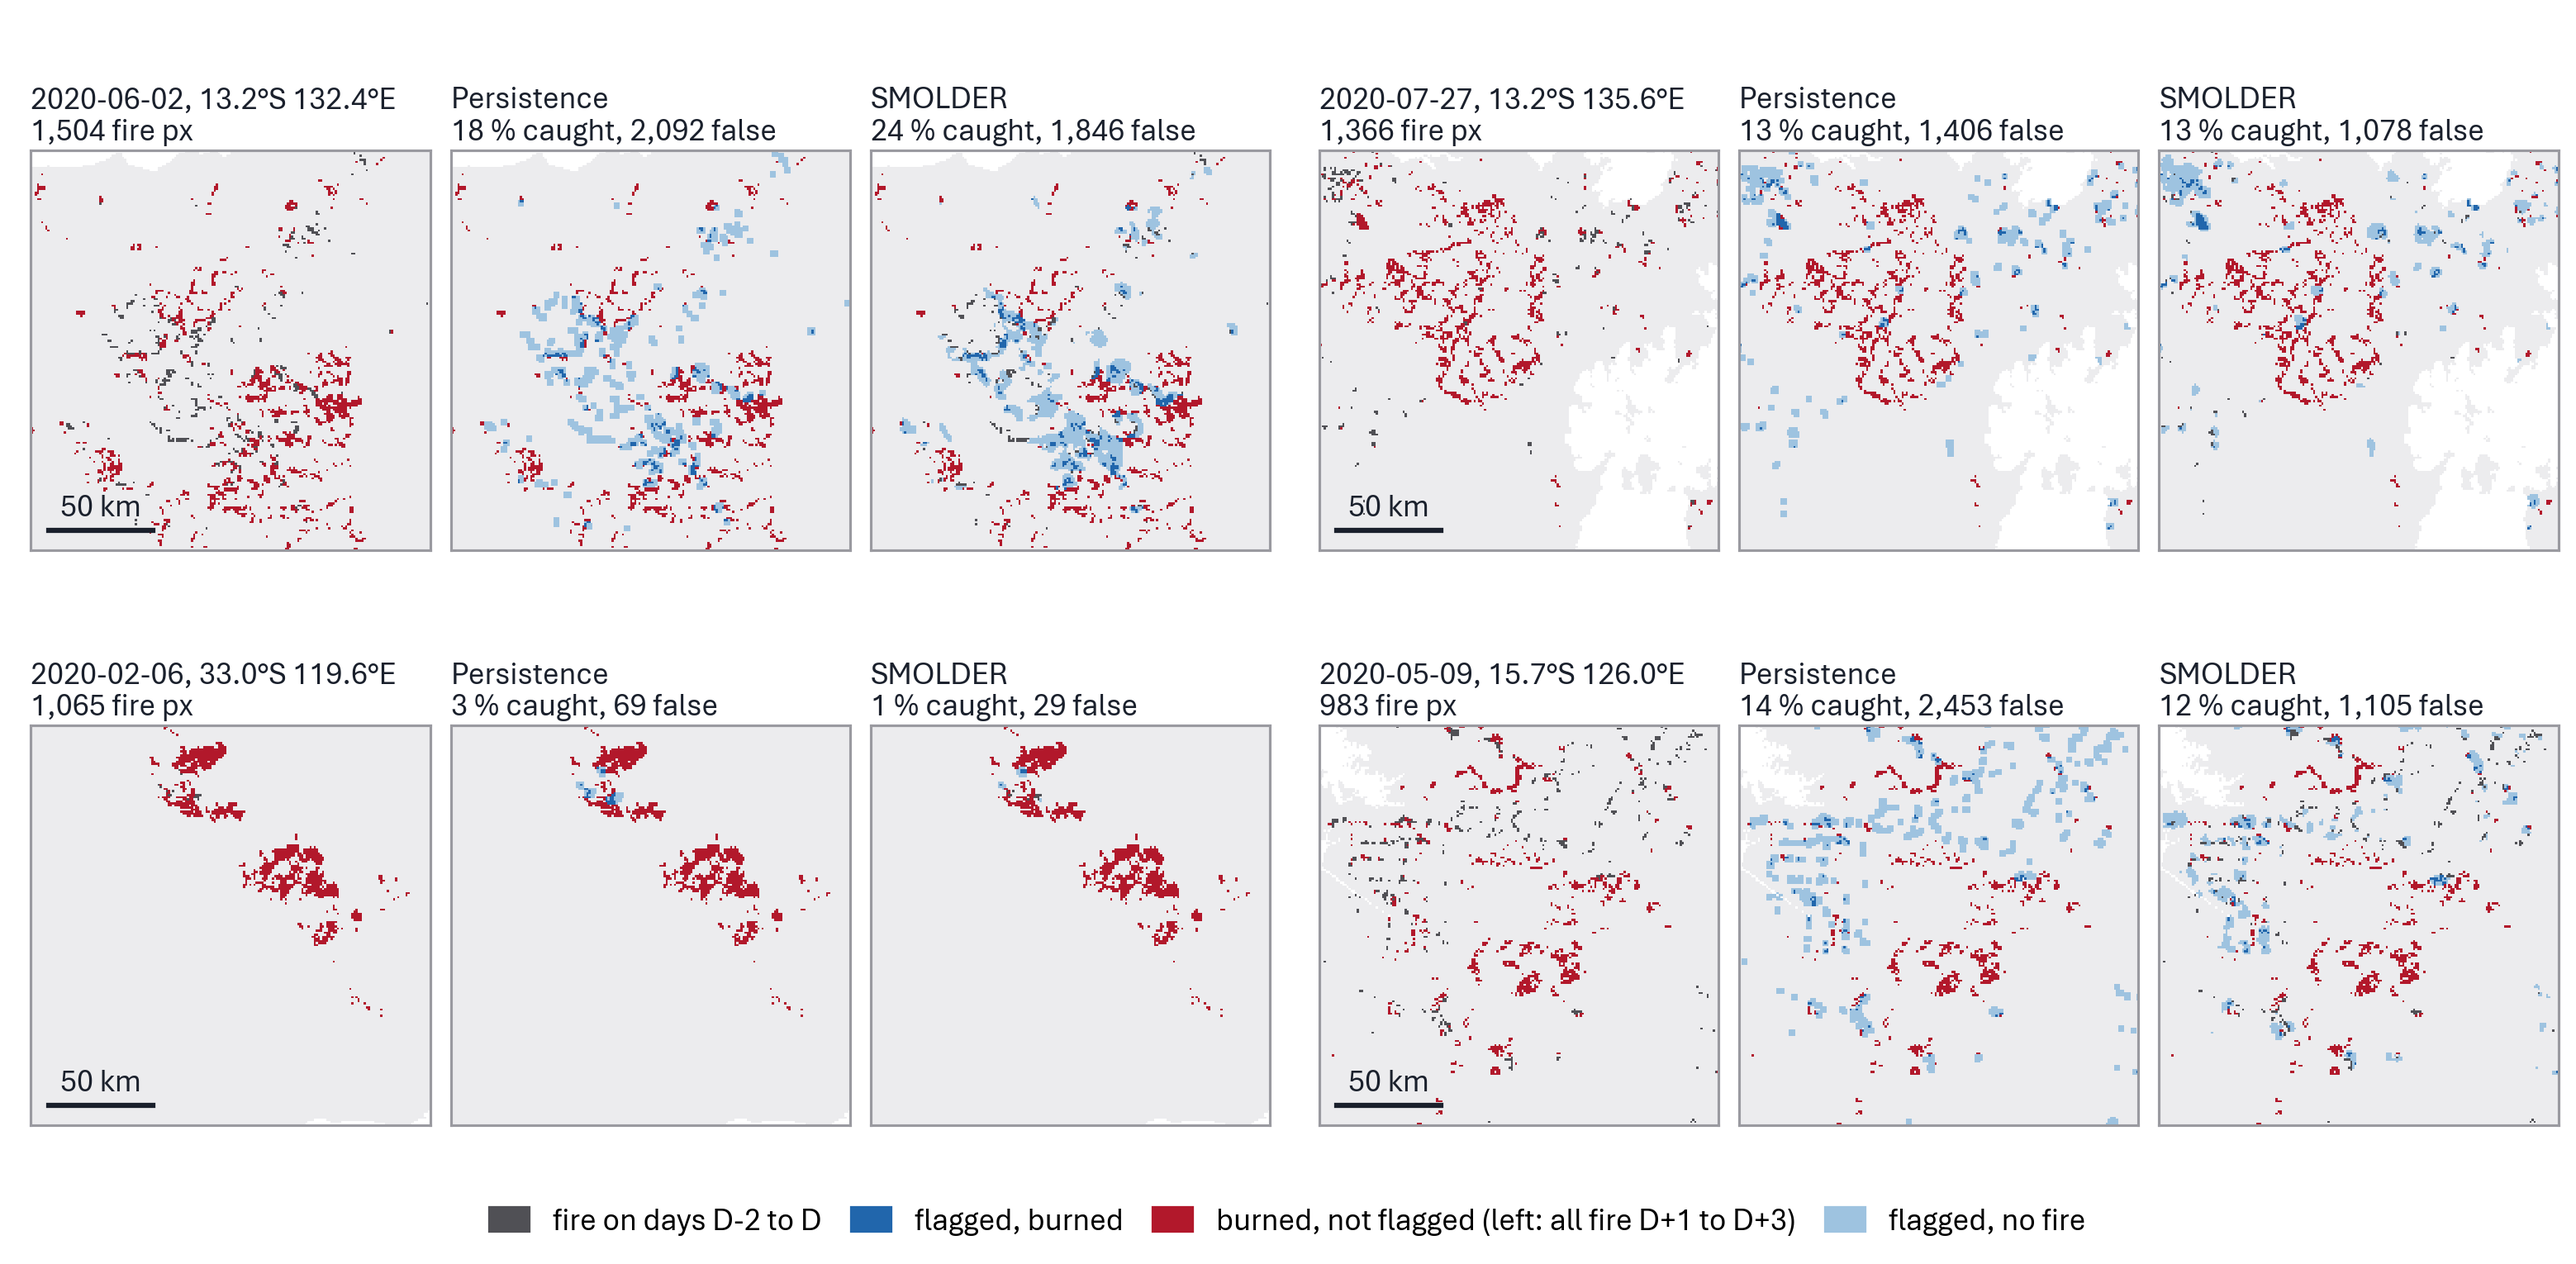
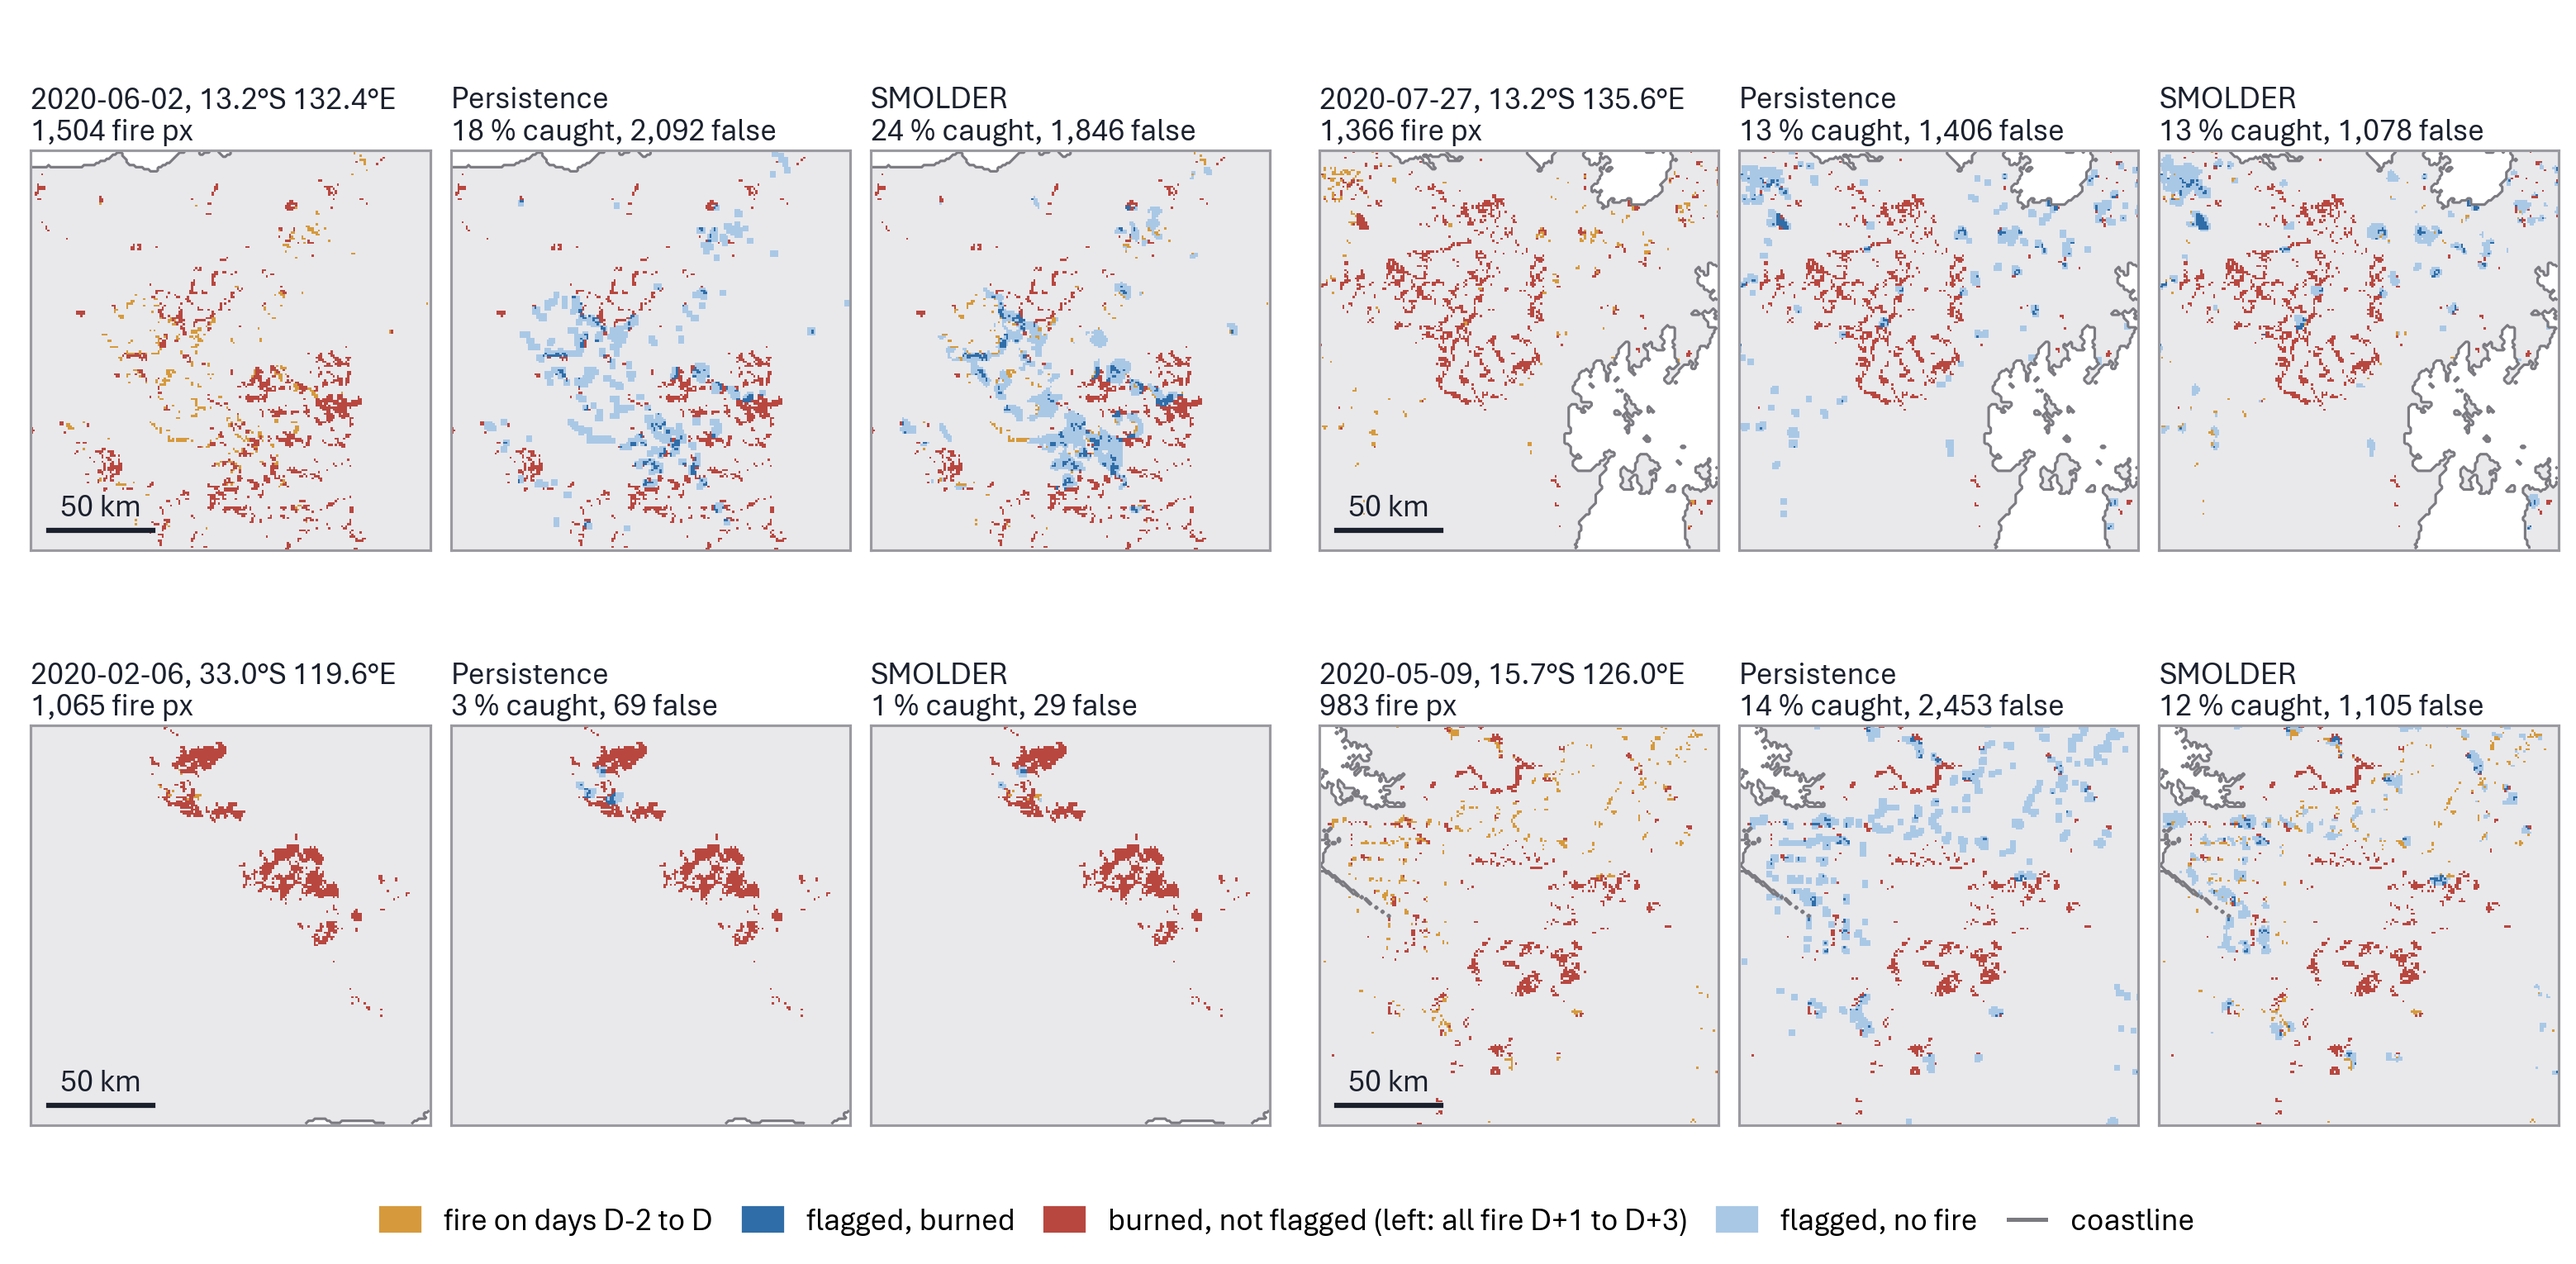
Simpler conditions figure (outcomes by distance to fire only); event maps with coastline and muted fire colours

diff --git a/figures/make_explain_figures.py b/figures/make_explain_figures.py
@@ -166,77 +166,56 @@ def _wquantile(v, w, q):
 
 
 def conditions(pixels):
-    """(a) Distance to recent fire by forecast outcome, as stacked shares.
-    (b-e) Issue-day conditions per outcome and climate zone: median (dot) and
-    middle half (bar) of the pixels, weighted to the true class sizes."""
+    """Where each forecast outcome lies relative to fire already burning: one
+    stacked bar per outcome, shares of pixels by distance to the nearest fire
+    of the issue day and the two days before, weighted to the true class sizes.
+    The issue-day conditions per outcome and climate zone (weighted quartiles)
+    are computed for the numbers file but not drawn."""
     import pandas as pd
     _paper_rc()
     p = pd.read_csv(pixels, usecols=lambda c: c in {"cls", "cls_n", "patch", "climate", "dist_recent_fire_km"}
                     | {v for v, *_ in COND_VARS})
     p["w"] = _weights(p)
     d = p.dist_recent_fire_km.fillna(np.inf).values           # NaN: beyond the feature's range (~70 km)
-    fig = plt.figure(figsize=(PW, 3.5))
 
-    # (a) where each outcome lies relative to fire already burning
-    a = fig.add_axes([0.16, 0.70, 0.60, 0.26])
-    yy = np.arange(len(OUTCOMES))[::-1]
+    quartiles = {}                                             # var -> climate -> outcome -> [q25, median, q75, n]
+    for var, *_ in COND_VARS:
+        for clim in ("tropical", "arid", "temperate"):
+            for cls, *_ in OUTCOMES:
+                m = ((p.cls == cls) & (p.climate == clim)).values & np.isfinite(p[var].values)
+                if m.sum() >= 30:
+                    q = _wquantile(p[var].values[m], p.w.values[m], [0.25, 0.5, 0.75])
+                    quartiles.setdefault(var, {}).setdefault(clim, {})[cls] = [float(v) for v in q] + [int(m.sum())]
+
+    rows = [("hit", "Fire that SMOLDER caught"), ("miss", "Fire that SMOLDER missed"),
+            ("false_alarm", "False alarms"), ("background", "All other land")]
+    bands = [("under 3 km", 0, 3, "#A5482F", "white"), ("3 to 10 km", 3, 10, "#D9976A", INK),
+             ("over 10 km", 10, np.inf, "#EEE4D8", INK)]
+    fig = plt.figure(figsize=(PW, 1.9))
+    a = fig.add_axes([0.2, 0.2, 0.77, 0.58])
+    yy = np.arange(len(rows))[::-1]
     shares = {}
-    for (cls, name, desc, col), y in zip(OUTCOMES, yy):
+    for (cls, label), y in zip(rows, yy):
         m = (p.cls == cls).values
         w = p.w.values[m]; left = 0.0
         shares[cls] = []
-        for lab, lo, hi, bc in DIST_BANDS:
+        for _, lo, hi, col, tc in bands:
             sh = 100 * w[(d[m] >= lo) & ((d[m] < hi) | np.isinf(hi))].sum() / w.sum()
             shares[cls].append(sh)
-            a.barh(y, sh, left=left, height=0.66, color=bc, edgecolor="white", lw=0.4, zorder=3)
-            if sh >= 7:
-                a.text(left + sh / 2, y, f"{sh:.0f} %", ha="center", va="center", fontsize=6,
-                       color="white" if bc != "#D3D3D8" else INK, zorder=4)
+            a.barh(y, sh, left=left, height=0.68, color=col, edgecolor="white", lw=0.6, zorder=3)
+            if sh >= 6:
+                a.text(left + sh / 2, y, f"{sh:.0f} %", ha="center", va="center", fontsize=6.5, color=tc, zorder=4)
             left += sh
     a.set_yticks(yy)
-    a.set_yticklabels([f"{name}\n({desc})" for _, name, desc, _ in OUTCOMES], fontsize=6, linespacing=0.95)
-    for t, (_, _, _, col) in zip(a.get_yticklabels(), OUTCOMES):
-        t.set_color(col); t.set_fontweight("bold")
-    a.set_xlim(0, 100); a.set_xlabel("Share of pixels (%)", labelpad=1)
+    a.set_yticklabels([label for _, label in rows], fontsize=6.5)
+    a.set_xlim(0, 100); a.set_ylim(-0.5, len(rows) - 0.5)
+    a.set_xticks([0, 25, 50, 75, 100]); a.set_xticklabels(["0", "25", "50", "75", "100 %"])
     _paper_axes(a, grid_y=False)
-    a.legend(handles=[plt.Rectangle((0, 0), 1, 1, color=bc) for *_, bc in DIST_BANDS],
-             labels=[lab for lab, *_ in DIST_BANDS], title="Distance to fire of the\nissue day and 2 days before",
-             title_fontsize=6.2, loc="center left", bbox_to_anchor=(1.01, 0.5), frameon=False, handlelength=1.2)
-    _tag(a, "a", x=-0.25)
-
-    # (b-e) conditions on the issue day
-    x0, wd, gap = 0.085, 0.2, 0.03
-    ydot = {"tropical": 2, "arid": 1, "temperate": 0}
-    off = (np.arange(len(OUTCOMES)) - 1.5) * 0.17
-    quartiles = {}                                         # var -> climate -> outcome -> [q25, median, q75, n]
-    for k, (var, label, scale, fmt) in enumerate(COND_VARS):
-        ax = fig.add_axes([x0 + k * (wd + gap), 0.11, wd, 0.40])
-        for clim, yc in ydot.items():
-            for o, (cls, name, _, col) in enumerate(OUTCOMES):
-                m = ((p.cls == cls) & (p.climate == clim)).values & np.isfinite(p[var].values)
-                if m.sum() < 30:
-                    continue
-                q1, q2, q3 = _wquantile(p[var].values[m] * scale, p.w.values[m], [0.25, 0.5, 0.75])
-                quartiles.setdefault(var, {}).setdefault(clim, {})[cls] = [float(q1), float(q2), float(q3), int(m.sum())]
-                yv = yc - off[o]
-                ax.plot([q1, q3], [yv, yv], color=col, lw=1.6, alpha=0.45, solid_capstyle="butt", zorder=3)
-                ax.plot(q2, yv, "o", ms=3.2, color=col, zorder=4)
-        ax.set_ylim(-0.5, 2.5)
-        ax.set_yticks(list(ydot.values()))
-        ax.set_yticklabels([c if k == 0 else "" for c in ydot], fontsize=6.5)
-        if k > 0:
-            ax.tick_params(axis="y", length=0)
-        ax.set_xlabel(label, labelpad=1)
-        ax.set_xlim(left=0)
-        _paper_axes(ax, grid_y=False)
-        for yb in (0.5, 1.5):
-            ax.axhline(yb, color="white", lw=1.0, zorder=1)
-        _tag(ax, "bcde"[k], x=-0.33 if k == 0 else -0.06)
-    from matplotlib.lines import Line2D
-    fig.legend(handles=[Line2D([], [], color=col, marker="o", ms=3.2, lw=1.6, alpha=1) for *_, col in OUTCOMES],
-               labels=[name for _, name, _, _ in OUTCOMES], loc="lower left", bbox_to_anchor=(0.075, 0.535),
-               ncol=4, frameon=False, handlelength=1.6, columnspacing=1.4,
-               title="Conditions on the issue day (dot: median; bar: middle half of the pixels)",
+    a.tick_params(axis="y", length=0)
+    fig.legend(handles=[plt.Rectangle((0, 0), 1, 1, color=c) for _, _, _, c, _ in bands],
+               labels=[lab for lab, *_ in bands], loc="upper left", bbox_to_anchor=(0.2, 0.995), ncol=3,
+               frameon=False, handlelength=1.2, columnspacing=1.6,
+               title="Distance to the nearest fire detected on the issue day or the two days before",
                title_fontsize=6.5, alignment="left")
     fig.savefig(os.path.join(FIG_OUT, "fig_explain_conditions.png"), dpi=PDPI, facecolor="white")
     plt.close(fig)

diff --git a/figures/make_paper_figures.py b/figures/make_paper_figures.py
@@ -190,7 +190,9 @@ def importance():
 
 def events():
     year = int(os.environ.get("YEAR", 2020)); z = np.load(os.environ["EVENT_CACHE"])
-    OCEAN, LAND, RECENT, HIT, MISS, FALSE = "#FFFFFF", "#ECECEE", "#505055", "#2166AC", "#B2182B", "#9EC3E0"
+    # muted but distinct: recent fire amber, later fire brick red, flagged blue tones; coastline grey
+    OCEAN, LAND, RECENT, HIT, MISS, FALSE = "#FFFFFF", "#E9E9EC", "#D69A3C", "#2F6DA8", "#B8473F", "#A9C8E6"
+    COAST = "#7A7A80"
     cmap = ListedColormap([OCEAN, LAND, RECENT, HIT, MISS, FALSE]); S = 192
     LON0, LAT0, PX = 112.904998779, -9.005000113999998, 0.01
 
@@ -215,6 +217,7 @@ def events():
                 ax = fig.add_axes([x_ev[col] + j * (pw + gap), yb, pw, pw * W / 3.4])
                 flag = None if c == "obs" else z[p + c]
                 ax.imshow(rgb(land, recent, y, flag), cmap=cmap, vmin=-0.5, vmax=5.5, interpolation="nearest")
+                ax.contour(land.astype(float), levels=[0.5], colors=COAST, linewidths=0.5)
                 ax.set_xticks([]); ax.set_yticks([])
                 for s in ax.spines.values():
                     s.set_color("#9A9AA0"); s.set_linewidth(0.5)
@@ -229,8 +232,9 @@ def events():
                                  color=INK, loc="left", pad=2)
         handles = [Patch(color=RECENT, label="fire on days D-2 to D"), Patch(color=HIT, label="flagged, burned"),
                    Patch(color=MISS, label="burned, not flagged (left: all fire D+1 to D+3)"),
-                   Patch(color=FALSE, label="flagged, no fire")]
-        fig.legend(handles=handles, loc="lower center", ncol=4, frameon=False, fontsize=6, bbox_to_anchor=(0.5, 0.0),
+                   Patch(color=FALSE, label="flagged, no fire"),
+                   matplotlib.lines.Line2D([], [], color=COAST, lw=0.8, label="coastline")]
+        fig.legend(handles=handles, loc="lower center", ncol=5, frameon=False, fontsize=6, bbox_to_anchor=(0.5, 0.0),
                    handlelength=1.2, columnspacing=1.0)
         save(fig, f"fig_events_{kind}_{year}.png", 3.4)
 

diff --git a/figures/supplement/README.md b/figures/supplement/README.md
@@ -40,13 +40,12 @@ removes differences of region and season. Slow inputs are 8-day periods drawn
 at their centre; leaf area index is drawn at the date it was observed, 31 days
 before the model receives it.
 
-**fig_explain_conditions.png.** Forecast outcomes in 2020 with the threshold
-chosen on 2019 (best F2): caught (flagged, burned), missed (burned, not
-flagged), false alarm (flagged, no fire) and other land (neither). (a) Share of
-each outcome by distance to the nearest fire detected on the issue day or the
-two days before. (b to e) Conditions on the issue day by outcome and climate
-zone: median (dot) and middle half (bar) of the pixels. Pixels are weighted to
-the true size of their outcome in each patch.
+**fig_explain_conditions.png.** Where the forecast outcomes of 2020 lie
+relative to fire already burning, with the threshold chosen on 2019 (best
+F2): share of the fire that SMOLDER caught, of the fire it missed, of its
+false alarms and of all other land, by distance to the nearest fire detected
+on the issue day or the two days before. Pixels are weighted to the true size
+of their outcome in each patch.
 
 ## Input data, 2015 to 2020
 

diff --git a/README.md b/README.md
@@ -349,11 +349,10 @@ existing fire goes next.
 
 ![conditions by forecast outcome](figures/fig_explain_conditions.png)
 
-*(a) Where the outcomes lie: 87.0 % of the caught fire pixels and 78.2 % of
-the false alarms are within 3 km of recent fire, while 59.6 % of the missed
-fire is more than 10 km away. (b to e) Conditions on the issue day by
-outcome and climate zone (median and middle half).* Within a climate zone,
-caught pixels are drier than other land: in the temperate zone soil moisture
+*Where the outcomes lie: 87.0 % of the caught fire pixels and 78.2 % of the
+false alarms are within 3 km of recent fire, while 59.6 % of the missed fire
+is more than 10 km away.* Within a climate zone, caught pixels are also drier
+than other land: in the temperate zone soil moisture
 0.337 against 0.549 and vapour pressure deficit 2.31 against 1.42 kPa
 (`explain_figures_numbers.json`).
 
